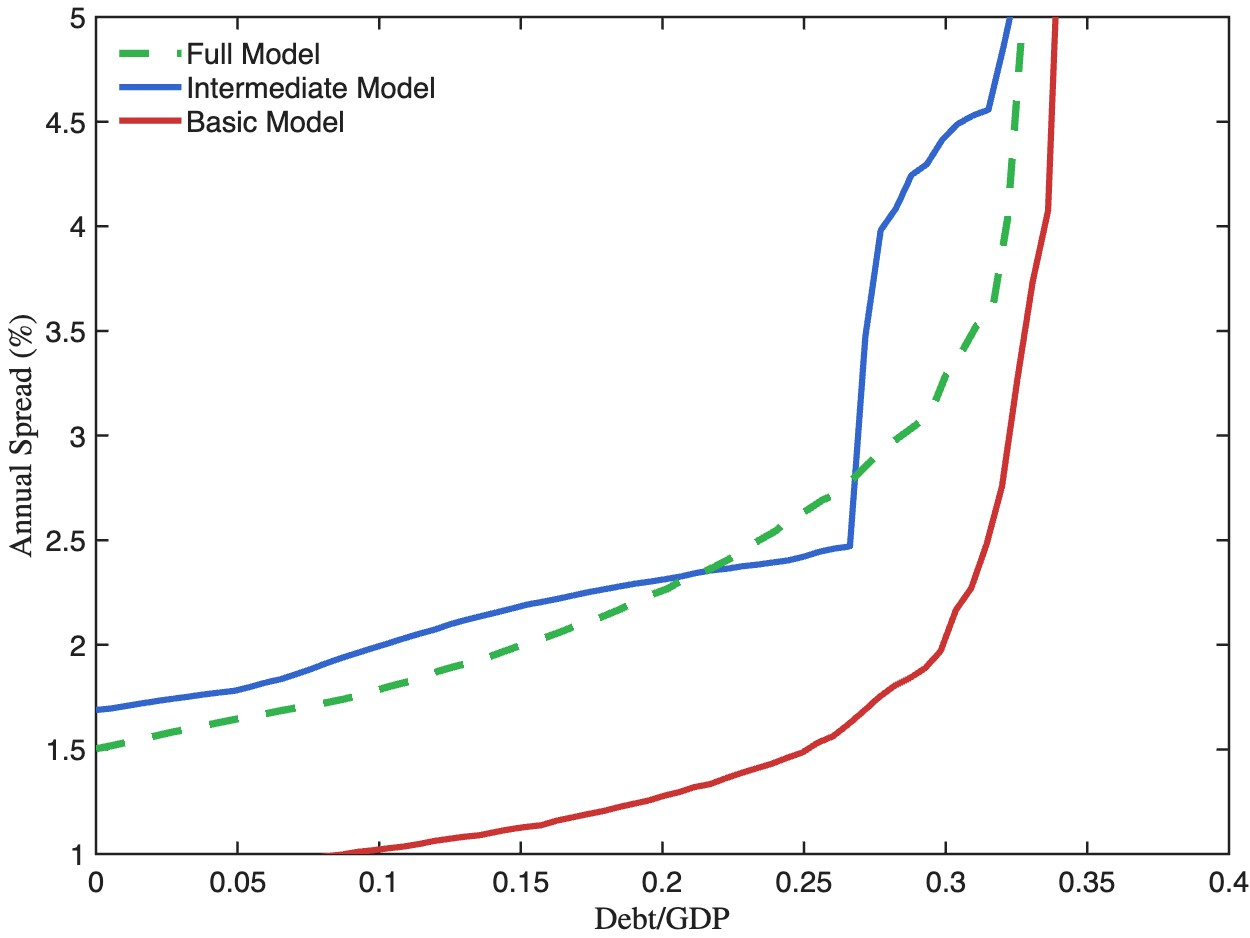
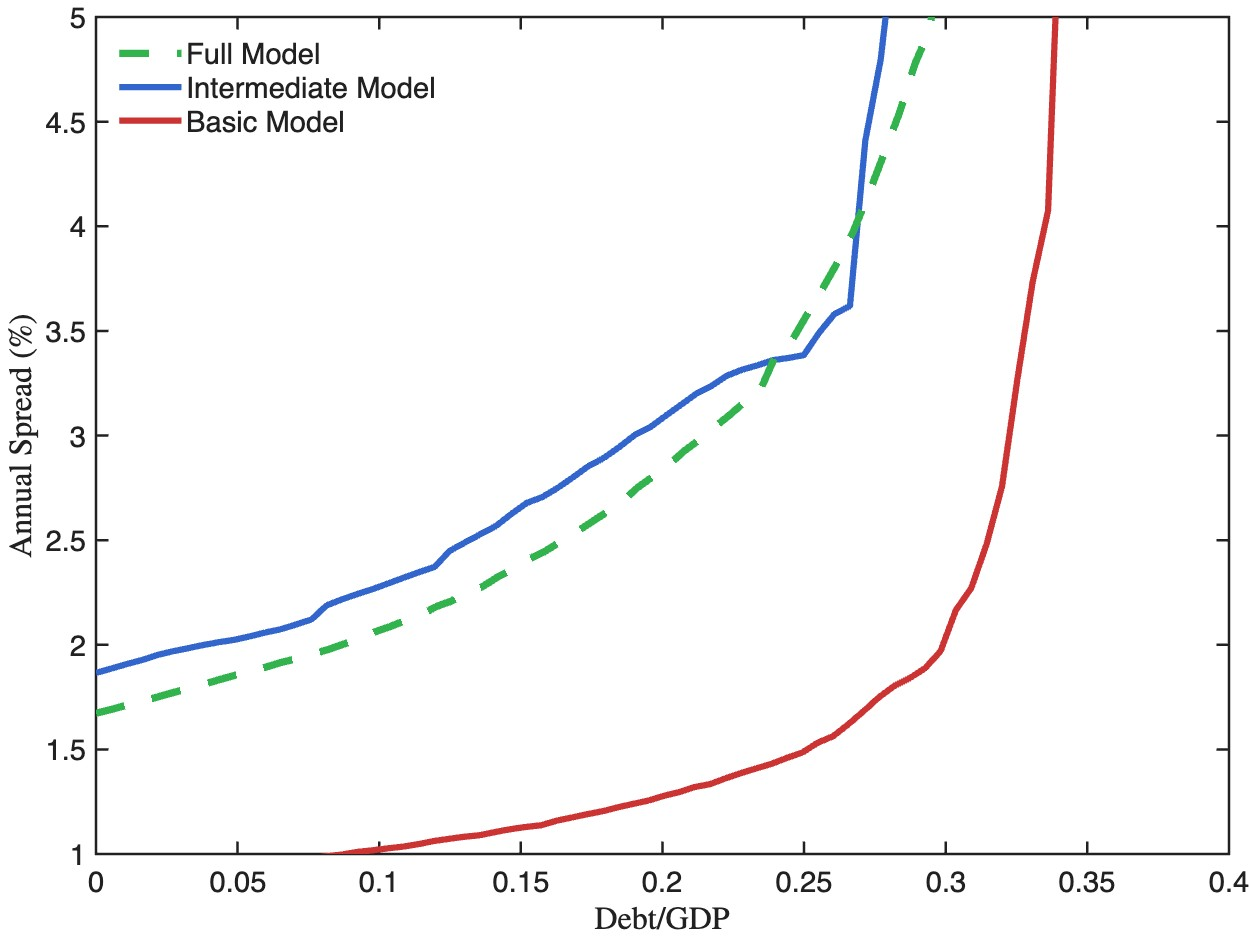
FIGURE2: evaluate all three economies at one physical price
Each economy centred its grid differently and the figure plotted each at its
OWN central node: benchmark exp(mean_p) = 1.1275, level-matched intermediate
1.1090 (its mean_p is shifted so simulated E[p] matches), basic 1.3339 (pinned
on the ergodic MEAN of p, while Rouwenhorst centres on the median of log p --
an 18% gap from Jensen). So the figure compared three different oil prices.

All three are now brought to the basic economy's price, 1.3339. It has to be
the common point: with a single price node the basic economy cannot be
interpolated anywhere else, so the other two come to it.

This also explains the odd shape the intermediate schedule had. Two things
were stacked:

* Constant volatility collapses the intermediate economy's five volatility
  slices into identical copies -- 1 of 5 distinct, against 5 of 5 in the
  benchmark -- so its effective next-period state space is 5x coarser and its
  default-set step sizes are quantised to multiples of 5 (0, 20, 0, 5, 5, 10,
  5, ...) against the benchmark's varied steps (11, 0, 12, 4, 2, 9, 5, ...).
  Its spread schedule is therefore a visibly coarser step function.

* At the mismatched price 1.1275 one of those quantised flips landed
  mid-range, producing a 1.48 pp vertical jump at debt/GDP 0.278 -- the step
  that made the curve look wrong. At the common price 1.3339 the largest step
  is 3.24 pp at i_b = 60, next to the benchmark's 2.95 pp at i_b = 61: the two
[…]

diff --git a/model/figures_pipeline/script_bm.m b/model/figures_pipeline/script_bm.m
@@ -311,6 +311,7 @@ scale_y=10;
 dy1 =0.25*b_grid/mean(scale_y*exp(y_grid));
 y1=scale_y*exp(y_grid);
 spread1=spread_matrix;
+p_grid_matrix1 = p_grid_matrix;   % snapshot: later loads overwrite p_grid_matrix
 %fprintf('DEBUG: After assignment, spread1 size = ['); fprintf('%d ', size(spread1)); fprintf(']\n');
 % ---- CES feasibility mask (per-state grid) ---------------------------------
 % The highest-volatility per-state grid is built from that state's volatility
@@ -996,6 +997,7 @@ load oil_intermediate.mat %(=intermediate=vol constant at mean, but level changi
 dy2 =0.25*b_grid/mean(scale_y*exp(y_grid));
 y2=scale_y*exp(y_grid);
 spread2=spread_matrix;
+p_grid_matrix2 = reshape(p_grid, p_num, p_vol_num);   % intermediate's own grid
 mean_output2=mean(output_matrix(:));   % was 3 nested means, which leaves a 4-D array
                                        % whenever p_vol_num > 1 in the comparison economy
 debt_output2=0.25*b_grid./mean_output2;
@@ -1070,6 +1072,7 @@ load oil_basic %(=oil price level and vol both are constant)
 dy3 =0.25*b_grid/mean(scale_y*exp(y_grid));
 y3=scale_y*exp(y_grid);
 spread3=spread_matrix;
+p_grid_basic   = exp(p_grid(1));                      % basic's single price node
 mean_output3=mean(output_matrix(:));   % dimension-agnostic
 debt_output3=0.25*b_grid./mean_output3;
 consumption3=cons_matrix;
@@ -1149,9 +1152,29 @@ color_basic = [0.8, 0.2, 0.2];    % Red
 % drawn first is completely painted over by Intermediate. Draw Full LAST and
 % dashed so both are visible; the coincidence is the result, not a defect.
 hold on;
-h2 = plot(debt_output2, 100*squeeze(spread2(:,11,pidx(4),1))', '-', 'LineWidth', 3, 'Color', color_inter);
-h1 = plot(debt_output1, 100*spread1(:,11,pidx(4),3)', '--', 'LineWidth', 3.5, 'Color', color_full);
-h3 = plot(debt_output3, 100*spread3(:,11)', '-', 'LineWidth', 3, 'Color', color_basic);
+% ---- evaluate all three economies at ONE physical price ------------------
+% Each economy centres its own grid differently: the benchmark's central node
+% is exp(mean_p) = 1.1275, the LEVEL-MATCHED intermediate has mean_p shifted
+% so its simulated E[p] matches, putting its central node at 1.1090, and the
+% basic economy is pinned at the ergodic MEAN price 1.3339 -- 18% above the
+% benchmark's node, because Rouwenhorst centres on the median of log p while
+% the basic pin targets the mean of p. Plotting each at its own node compared
+% three different oil prices and made the Basic schedule look high by
+% construction. Interpolate all three onto the benchmark's central node.
+% The common price has to be the BASIC economy's, since it has a single price
+% node and cannot be interpolated anywhere else. Full and intermediate are
+% brought to it.
+p_fig2 = p_grid_basic;
+pm1 = exp(p_grid_matrix1(:,3));  pm2 = exp(p_grid_matrix2(:,1));
+s_full_f2 = 100*interp1(pm1, squeeze(spread1(:,11,:,3)).', p_fig2, 'linear').';
+s_int_f2  = 100*interp1(pm2, squeeze(spread2(:,11,:,1)).', p_fig2, 'linear').';
+s_bas_f2  = 100*spread3(:,11);          % single price node, already at p_fig2
+fprintf(['FIGURE2 evaluated at p = %.4f  (own central nodes: full %.4f, ' ...
+         'intermediate %.4f, basic %.4f)\n'], p_fig2, ...
+        pm1(ceil(numel(pm1)/2)), pm2(ceil(numel(pm2)/2)), p_grid_basic);
+h2 = plot(debt_output2, s_int_f2',  '-',  'LineWidth', 3,   'Color', color_inter);
+h1 = plot(debt_output1, s_full_f2', '--', 'LineWidth', 3.5, 'Color', color_full);
+h3 = plot(debt_output3, s_bas_f2',  '-',  'LineWidth', 3,   'Color', color_basic);
 
 % Axis labels
 xlabel('Debt/GDP', 'FontSize', 16, 'FontWeight', 'bold', 'Interpreter', 'latex');
